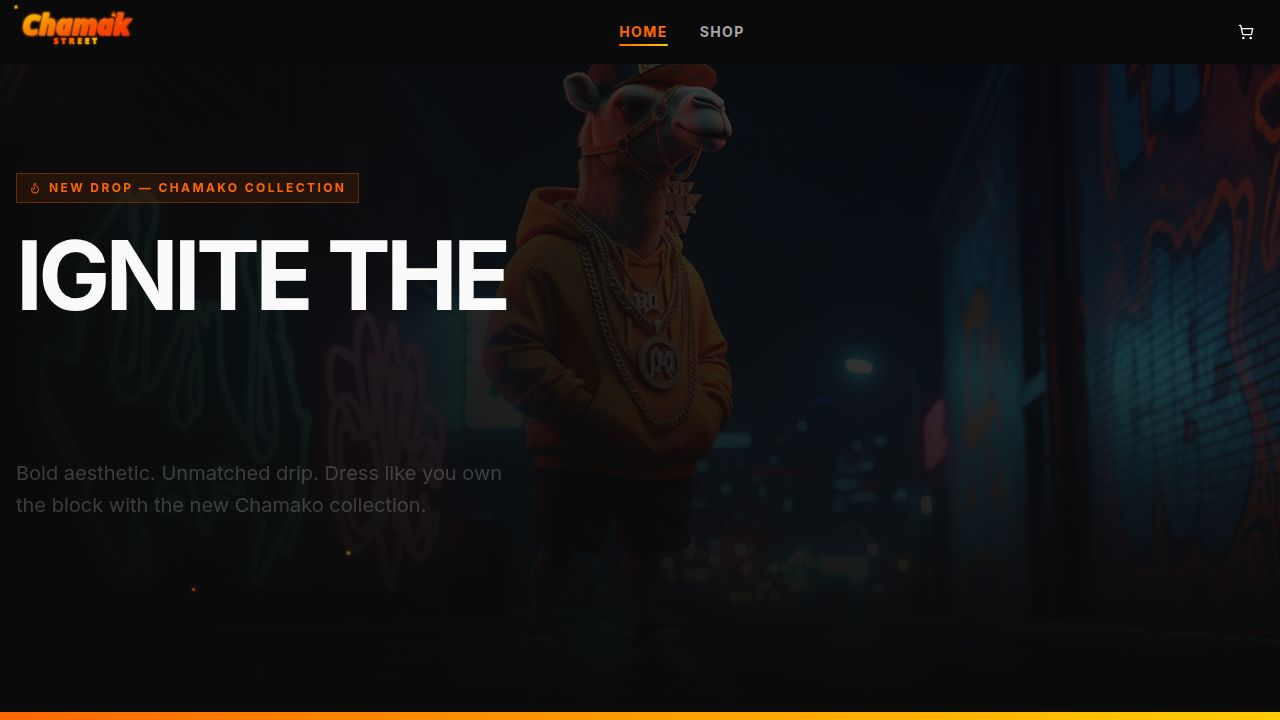
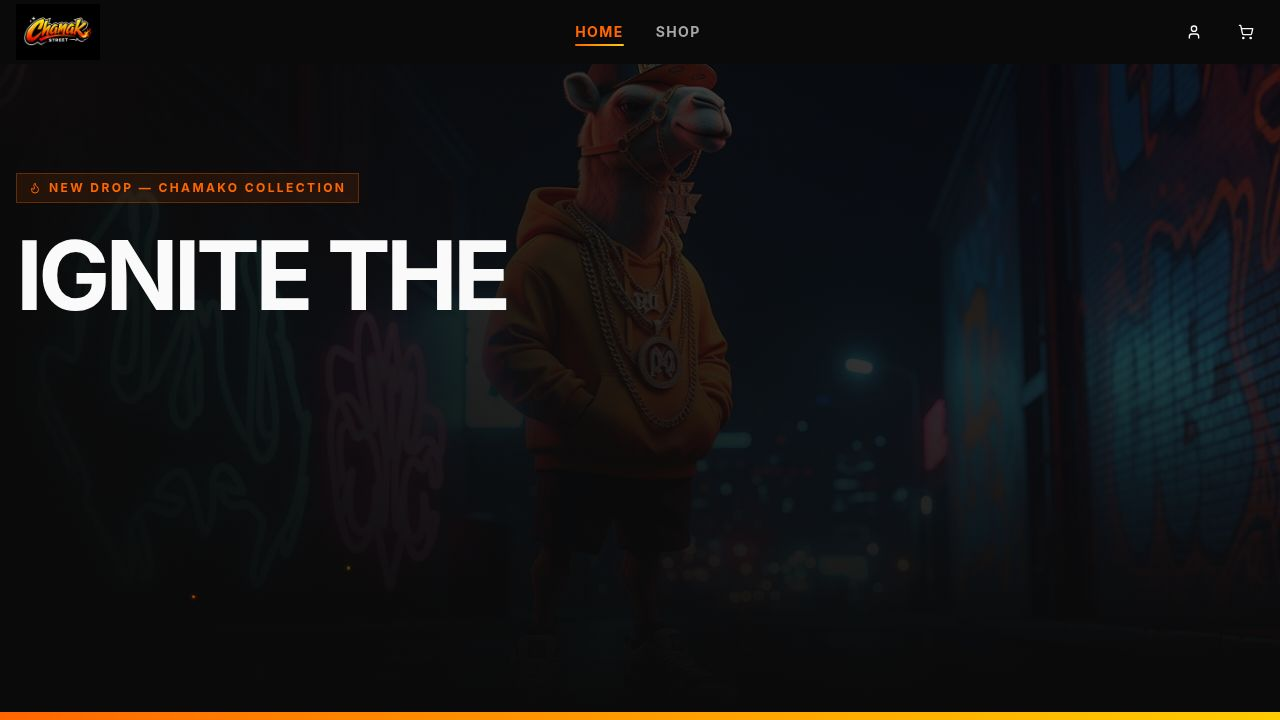
Improve website layout and text display on mobile devices
Adjust responsive font sizes, navigation bar logo sizing, and hero section text wrapping for better mobile viewing.

Replit-Commit-Author: Agent
Replit-Commit-Session-Id: 9ba5c5c8-9df3-43ab-9e4a-4c8a32ebc815
Replit-Commit-Checkpoint-Type: full_checkpoint
Replit-Commit-Event-Id: 91a07cc3-59ef-44e4-888d-d4e45350d86a
Replit-Commit-Screenshot-Url: https://storage.googleapis.com/screenshot-production-us-central1/d0bdd27a-1a37-4145-badf-44100e20233a/9ba5c5c8-9df3-43ab-9e4a-4c8a32ebc815/OL7TZSp
Replit-Helium-Checkpoint-Created: true

diff --git a/artifacts/chamak-street/src/pages/home.tsx b/artifacts/chamak-street/src/pages/home.tsx
@@ -111,43 +111,34 @@ export default function Home() {
 
               {/* Headline */}
               <motion.h1
-                className="text-5xl md:text-8xl font-black uppercase tracking-tighter leading-none mb-6"
+                className="text-[2.4rem] leading-[1] sm:text-5xl md:text-8xl font-black uppercase tracking-tight md:tracking-tighter mb-6"
                 initial={{ opacity: 0 }}
                 animate={{ opacity: 1 }}
                 transition={{ duration: 0.3 }}
               >
-                {"Ignite the".split("").map((char, i) => (
-                  <motion.span
-                    key={i}
-                    initial={{ opacity: 0, y: 40 }}
-                    animate={{ opacity: 1, y: 0 }}
-                    transition={{ duration: 0.4, delay: 0.2 + i * 0.025, ease: [0.22, 1, 0.36, 1] }}
-                    style={{ display: char === " " ? "inline" : "inline-block" }}
-                  >
-                    {char === " " ? "\u00A0" : char}
-                  </motion.span>
-                ))}
-                <br />
-                <span className="gradient-text">
-                  {"Streets.".split("").map((char, i) => (
-                    <motion.span
-                      key={i}
-                      initial={{ opacity: 0, y: 50 }}
-                      animate={{ opacity: 1, y: 0 }}
-                      transition={{ duration: 0.45, delay: 0.55 + i * 0.04, ease: [0.22, 1, 0.36, 1] }}
-                      style={{ display: "inline-block" }}
-                    >
-                      {char}
-                    </motion.span>
-                  ))}
-                </span>
+                <motion.span
+                  className="block"
+                  initial={{ opacity: 0, y: 30 }}
+                  animate={{ opacity: 1, y: 0 }}
+                  transition={{ duration: 0.5, delay: 0.2, ease: [0.22, 1, 0.36, 1] }}
+                >
+                  Ignite the
+                </motion.span>
+                <motion.span
+                  className="gradient-text block"
+                  initial={{ opacity: 0, y: 30 }}
+                  animate={{ opacity: 1, y: 0 }}
+                  transition={{ duration: 0.5, delay: 0.4, ease: [0.22, 1, 0.36, 1] }}
+                >
+                  Streets.
+                </motion.span>
               </motion.h1>
 
               <motion.p
                 initial={{ opacity: 0, y: 20 }}
                 animate={{ opacity: 1, y: 0 }}
                 transition={{ duration: 0.5, delay: 0.9 }}
-                className="text-lg md:text-xl text-muted-foreground mb-10 max-w-lg leading-relaxed"
+                className="text-base md:text-xl text-muted-foreground mb-8 max-w-lg leading-relaxed"
               >
                 Bold aesthetic. Unmatched drip. Dress like you own the block with the new Chamako collection.
               </motion.p>
@@ -162,7 +153,7 @@ export default function Home() {
                   <motion.div whileHover={{ scale: 1.04 }} whileTap={{ scale: 0.97 }}>
                     <Button
                       size="lg"
-                      className="text-lg h-14 px-10 font-black uppercase tracking-widest fire-gradient border-none shadow-[0_0_30px_rgba(255,102,0,0.45)] hover:shadow-[0_0_45px_rgba(255,102,0,0.65)] transition-all duration-300"
+                      className="text-base md:text-lg h-12 md:h-14 px-7 md:px-10 font-black uppercase tracking-widest fire-gradient border-none shadow-[0_0_30px_rgba(255,102,0,0.45)] hover:shadow-[0_0_45px_rgba(255,102,0,0.65)] transition-all duration-300"
                     >
                       Shop Now <ArrowRight className="ml-2 h-5 w-5" />
                     </Button>
@@ -219,7 +210,7 @@ export default function Home() {
           <div className="container px-4 mx-auto">
             <AnimatedSection>
               <div className="mb-14">
-                <h2 className="text-4xl md:text-5xl font-black uppercase tracking-tighter">The Essentials</h2>
+                <h2 className="text-3xl md:text-5xl font-black uppercase tracking-tighter">The Essentials</h2>
                 <p className="text-muted-foreground mt-2 text-lg">Build your uniform.</p>
               </div>
             </AnimatedSection>
@@ -274,7 +265,7 @@ export default function Home() {
             <AnimatedSection>
               <div className="flex justify-between items-end mb-14">
                 <div>
-                  <h2 className="text-4xl md:text-5xl font-black uppercase tracking-tighter">
+                  <h2 className="text-3xl md:text-5xl font-black uppercase tracking-tighter">
                     Heat <span className="gradient-text">Check</span>
                   </h2>
                   <p className="text-muted-foreground mt-2">The hottest pieces right now.</p>
@@ -351,7 +342,7 @@ export default function Home() {
               style={{ background: "radial-gradient(ellipse at 50% 50%, rgba(255,102,0,0.1), transparent 70%)" }}
             />
             <div className="container mx-auto px-4 text-center">
-              <p className="text-5xl md:text-7xl font-black uppercase tracking-tighter gradient-text leading-none">
+              <p className="text-3xl sm:text-4xl md:text-7xl font-black uppercase tracking-tight md:tracking-tighter gradient-text leading-tight">
                 "Stay Dripped.<br />Stay Dangerous."
               </p>
               <p className="text-muted-foreground mt-6 text-lg">— Chamako</p>

diff --git a/artifacts/chamak-street/src/components/layout.tsx b/artifacts/chamak-street/src/components/layout.tsx
@@ -52,7 +52,7 @@ export function Layout({ children }: { children: React.ReactNode }) {
         <div className="container mx-auto px-4 h-16 flex items-center justify-between">
           <Link href="/" className="flex items-center gap-2 z-50">
             <motion.div whileHover={{ scale: 1.03 }} transition={{ type: "spring", stiffness: 300 }}>
-              <img src="/chamak-logo.png" alt="Chamak Street" className="h-14 w-auto object-contain" />
+              <img src="/chamak-logo.png" alt="Chamak Street" className="h-10 md:h-14 w-auto object-contain" />
             </motion.div>
           </Link>
 

diff --git a/artifacts/chamak-street/src/pages/shop.tsx b/artifacts/chamak-street/src/pages/shop.tsx
@@ -42,7 +42,7 @@ export default function Shop() {
             animate={{ opacity: 1, x: 0 }}
             transition={{ duration: 0.5 }}
           >
-            <h1 className="text-5xl md:text-6xl font-black uppercase tracking-tighter">The Shop</h1>
+            <h1 className="text-4xl md:text-6xl font-black uppercase tracking-tighter">The Shop</h1>
             <p className="text-muted-foreground mt-2 text-lg">Latest drops and street essentials.</p>
           </motion.div>
 
